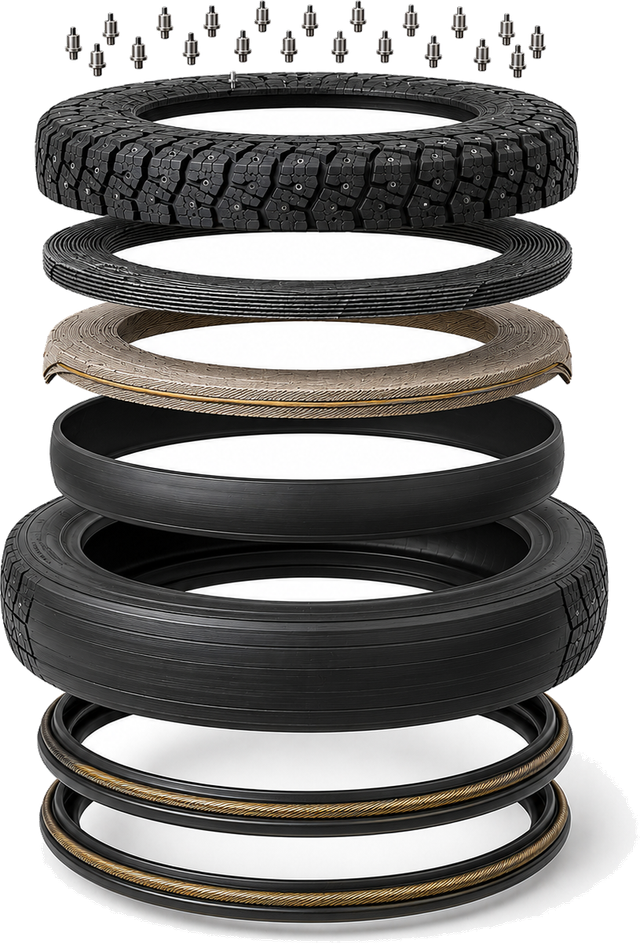
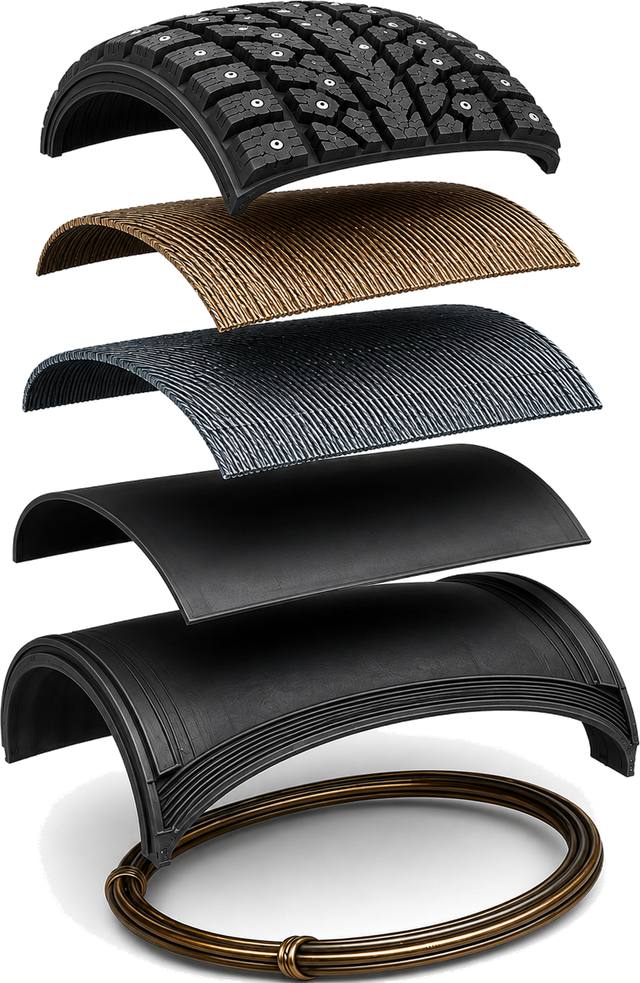
feat(anatomy): better studded decomposition asset + rename to «Схема разузлования»
- process-assets.mjs: studded exploded source → 17_00_31 (cleaner layer
  decomposition with studs on the tread), regenerated exploded-studded.png.
- AnatomyView: panel «Взрыв-схема» → «Схема разузлования» (eyebrow + alt).

Verified live: label + new image render on the studded anatomy tab;
npm run check green.

diff --git a/src/components/anatomy/AnatomyView.tsx b/src/components/anatomy/AnatomyView.tsx
@@ -42,14 +42,14 @@ export function AnatomyView() {
         </Panel>
 
         <Panel
-          eyebrow="Взрыв-схема"
+          eyebrow="Схема разузлования"
           title={`${construction.length} слоёв`}
           className="min-w-0 flex-1"
           bodyClassName="min-h-0 p-2"
         >
           <img
             src={explodedView}
-            alt={isStudded ? 'Взрыв-схема шипованной шины' : 'Взрыв-схема слоёв шины'}
+            alt={isStudded ? 'Схема разузлования шипованной шины' : 'Схема разузлования шины'}
             className="h-full w-full object-contain"
           />
         </Panel>
